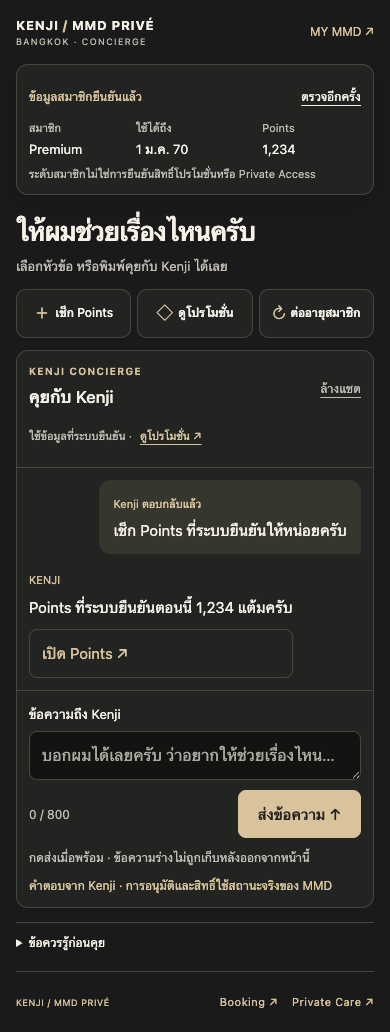
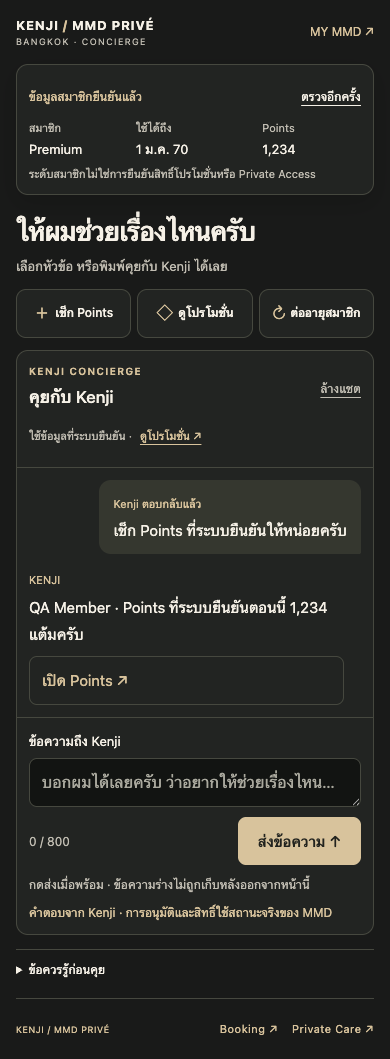
Render Points replies from fresh guarded LIFF authority

diff --git a/webflow/concierge/kenji/kenji-concierge-v3.js b/webflow/concierge/kenji/kenji-concierge-v3.js
@@ -22,10 +22,14 @@
     var guarded=profile.points_policy==="lot_365d_from_entry"&&points.expiry_policy==="lot_365d_from_entry"&&points.status==="verified"&&points.active_points===balance&&profile.points_recovery_pending!==true;
     if(!guarded||typeof balance!=="number"||!Number.isSafeInteger(balance)||balance<0)balance=null;
     var unresolved=profile.pending_identity===true||profile.resolution_guard&&profile.resolution_guard.state==="checking";
-    return{mode:mode,tier:unresolved?"":clean(profile.tier),expiry:!unresolved&&Number.isFinite(expires)?expiry:"",points:unresolved?null:balance};
+    return{mode:mode,tier:unresolved?"":clean(profile.tier),expiry:!unresolved&&Number.isFinite(expires)?expiry:"",points:unresolved?null:balance,displayName:unresolved?"":clean(profile.display_name).slice(0,100)};
   }
-  function displayReply(data,points){
-    return data.intent==="points_status"&&points===null?"ตอนนี้ยังยืนยันยอด Points ไม่ได้ครับ ตรวจข้อมูลใน MY MMD ก่อน ผมจะไม่เติมยอดที่ยังไม่ยืนยัน":data.reply;
+  function displayReply(data,points,name){
+    if(data.intent!=="points_status")return data.reply;
+    // The chat BFF can carry an unguarded legacy balance. Render only the
+    // freshly read, payment-backed LIFF value; never parse or reuse its reply.
+    if(typeof points!=="number"||!Number.isSafeInteger(points)||points<0)return "ตอนนี้ยังยืนยันยอด Points ไม่ได้ครับ ตรวจข้อมูลใน MY MMD ก่อน ผมจะไม่เติมยอดที่ยังไม่ยืนยัน";
+    return (clean(name)?clean(name)+" · ":"")+"Points ที่ระบบยืนยันตอนนี้ "+new Intl.NumberFormat("th-TH").format(points)+" แต้มครับ";
   }
   function safeAction(action){
     if(!action||typeof action.url!=="string"||typeof action.label!=="string")return null;
@@ -39,7 +43,7 @@
   root.dataset.initialized="true";
   var $=function(selector){return root.querySelector(selector)};
   var card=$("[data-kj3-status-card]"),input=$("#kj3-input"),feedback=$("[data-kj3-chat-status]");
-  var requestId=0,controller=null,lastChecked=0,chatController=null,chatId=0,memberPoints=null,busy=false,canChat=false,paused=false;
+  var requestId=0,controller=null,lastChecked=0,chatController=null,chatId=0,memberPoints=null,memberName="",busy=false,canChat=false,paused=false;
   var messages=$("[data-kj3-messages]"),send=$("[data-kj3-send]");
   function safePath(value,fallback){try{var url=new URL(value,location.origin);return url.origin===location.origin&&url.pathname.startsWith("/")?url.pathname+url.search+url.hash:fallback}catch(e){return fallback}}
   var endpoint=safePath(root.dataset.profileEndpoint,"/member/api/liff/profile");
@@ -62,7 +66,7 @@
   $("[data-kj3-login]").href=verify;
   var labels={loading:["กำลังตรวจสอบสมาชิก","อ่านข้อมูลที่ยืนยันแล้วจาก MY MMD"],active:["ข้อมูลสมาชิกยืนยันแล้ว","ระดับสมาชิกไม่ใช่การยืนยันสิทธิ์โปรโมชั่นหรือ Private Access"],guest:["ยืนยันบัญชีเพื่อดูสถานะ","เปิด MY MMD แล้วกลับมาตรวจอีกครั้ง"],expired:["สมาชิกหมดอายุ / ไม่ใช้งาน","ตรวจขั้นตอนต่ออายุใน MY MMD"],pending:["สถานะอยู่ระหว่างตรวจสอบ","ยังไม่ยืนยันการเปิดสิทธิ์ส่วนตัว"],blocked:["สิทธิ์อยู่ระหว่างระงับ","ตรวจสถานะใน MY MMD หรือติดต่อ Private Care"],unknown:["ยังยืนยันสถานะสมาชิกไม่ได้","ข้อมูลไม่ครบ กรุณาตรวจใน MY MMD"],error:["ตรวจสถานะไม่สำเร็จ","ลองตรวจอีกครั้ง ข้อมูลเก่าจะไม่ถูกแสดงแทน" ]};
   function state(profile){
-    memberPoints=profile.points==null?null:profile.points;
+    memberPoints=profile.points==null?null:profile.points;memberName=profile.displayName||"";
     var mode=profile.mode,copy=labels[mode]||labels.unknown;
     root.dataset.memberMode=mode;card.setAttribute("aria-busy",mode==="loading"?"true":"false");
     $("[data-kj3-status-title]").textContent=copy[0];$("[data-kj3-status-copy]").textContent=copy[1];
@@ -118,8 +122,12 @@
       if(!response.ok||!data||data.ok!==true||typeof data.reply!=="string"||!data.reply.trim()){
         label.textContent="ยังไม่ยืนยันการรับ";feedback.textContent=response.status===409?"รายการซ้ำหรือสถานะเปลี่ยน ยังไม่ยืนยันการรับ กรุณาตรวจบทสนทนาเดิมก่อนส่งซ้ำ":"ยังรับคำตอบไม่ได้ ข้อความยังอยู่ในช่องพิมพ์ กรุณาตรวจสถานะก่อนลองใหม่";return;
       }
+      if(data.intent==="points_status"){
+        await load();
+        if(id!==chatId||root.dataset.memberMode==="loading")return;
+      }
       label.textContent="Kenji ตอบกลับแล้ว";
-      var reply=displayReply(data,memberPoints);
+      var reply=displayReply(data,memberPoints,memberName);
       addMessage(reply,"kenji",data.review_required===true?"KENJI · ต้องตรวจสอบเพิ่มเติม":"KENJI",data.action);
       if(input.value.trim()===message){input.value="";$("[data-kj3-count]").textContent="0 / 800"}
       feedback.textContent="คำตอบจาก Kenji · การอนุมัติและสิทธิ์ใช้สถานะจริงของ MMD";

diff --git a/webflow/concierge/kenji/qa/browser-qa.js b/webflow/concierge/kenji/qa/browser-qa.js
@@ -1,9 +1,9 @@
 async (page) => {
   const capture=async options=>{await page.evaluate(()=>window.scrollTo(0,0));await page.screenshot(options)};
   const checks=[];const check=(value,label)=>{if(!value)throw new Error(label);checks.push(label)};
-  const liffProfile=(points=1234,fields={})=>({ok:true,data:{tier:'Premium',membership_status:'active',membership_expires_at:'2027-01-01',...fields,points,points_policy:'lot_365d_from_entry',customer_360:{points:{status:points===null?'checking':'verified',active_points:points,expiry_policy:'lot_365d_from_entry'}}}});
+  const liffProfile=(points=1234,fields={})=>({ok:true,data:{display_name:'QA Member',tier:'Premium',membership_status:'active',membership_expires_at:'2027-01-01',...fields,points,points_policy:'lot_365d_from_entry',customer_360:{points:{status:points===null?'checking':'verified',active_points:points,expiry_policy:'lot_365d_from_entry'}}}});
   const profileBody=liffProfile();
-  let profile={status:200,body:profileBody},chat={status:200,body:{ok:true,reply:'Points ที่ระบบยืนยันตอนนี้ 1,234 แต้มครับ',intent:'points_status',action:{label:'เปิด Points',url:'/my-mmd/points'}}},posts=[];
+  let profile={status:200,body:profileBody},chat={status:200,body:{ok:true,reply:'Legacy balance 61,320 แต้ม',intent:'points_status',action:{label:'เปิด Points',url:'/my-mmd/points'}}},posts=[];
   const errors=[];page.on('pageerror',error=>errors.push(error.message));
   await page.route('**/member/api/liff/profile',async route=>{const current=profile;if(current.delay)await page.waitForTimeout(current.delay);await route.fulfill({status:current.status,contentType:'application/json',body:JSON.stringify(current.body)})});
   await page.route('**/api/member/kenji/chat',async route=>{posts.push(route.request().postDataJSON());const current=chat;if(current.delay)await page.waitForTimeout(current.delay);if(current.abort)return route.abort();await route.fulfill({status:current.status,contentType:'application/json',body:current.raw??JSON.stringify(current.body)})});
@@ -27,7 +27,7 @@ async (page) => {
   check((await input.inputValue()).includes('Points'),'points prompt');
   chat.delay=400;await send.dblclick();await page.waitForFunction(()=>!document.querySelector('[data-kj3-send]').disabled);
   check(posts.length===1,'duplicate clicks send exactly once');check(Object.keys(posts[0]).join(',')==='message','request is existing message contract only');
-  check((await root.locator('[data-kj3-messages]').textContent()).includes('1,234'),'actual mock reply rendered');check((await input.inputValue())==='','success clears submitted input');
+  check((await root.locator('[data-kj3-messages]').textContent()).includes('1,234'),'guarded1234 replaces raw61320 reply');check((await input.inputValue())==='','success clears submitted input');
   check((await root.locator('.kj3-message a').getAttribute('href'))==='/my-mmd/points','backend action preserved');
   await capture({path:'output/playwright/kenji-chat-390.png',fullPage:true});
   await input.fill('อยากคุยต่อครับ');await input.press('Enter');check(posts.length===1,'Enter adds newline, no implicit send');
@@ -53,6 +53,21 @@ async (page) => {
   await page.evaluate(()=>window.scrollTo(0,document.body.scrollHeight));check(await root.locator('[data-kj3-status-card]').evaluate(el=>Math.abs(el.getBoundingClientRect().top)<1),'status persists while scrolling');
   await page.setViewportSize({width:390,height:844});profile={status:200,body:profileBody};await page.goto('http://127.0.0.1:8765/concierge/kenji?t=QA_ONLY#kj3-faq');await ready();check(page.url().includes('t=QA_ONLY#kj3-faq'),'query and historical anchor preserved');await page.goto('http://127.0.0.1:8765/concierge/kenji?t=QA_ONLY#kj3-care');await page.goBack();check(page.url().endsWith('#kj3-faq'),'back anchor');await page.goForward();check(page.url().endsWith('#kj3-care'),'forward anchor');
   await page.reload();await ready();check((await root.locator('[data-kj3-messages]').textContent()).includes('ยังไม่มีบทสนทนา'),'reload no fabricated history');
+  for(const balance of [2222,null,0,-5]){
+    profile={status:200,body:profileBody};await page.reload();await ready();
+    profile={status:200,body:liffProfile(balance)};
+    chat={status:200,body:{ok:true,reply:'QA Member · Points 61,320 แต้ม',intent:'points_status'}};
+    await input.fill('เช็ก Points');await send.click();await page.waitForFunction(()=>!document.querySelector('[data-kj3-send]').disabled);
+    const shown=await root.locator('.kj3-message[data-role=kenji]').last().textContent();
+    check(!shown.includes('61,320'),'raw reply discarded for fresh '+balance);
+    check(balance===null||balance<0?shown.includes('ยังยืนยันยอด Points ไม่ได้'):shown.includes(balance===0?'0 แต้ม':'2,222 แต้ม'),'fresh guarded reply '+balance);
+    check((await root.locator('[data-kj3-points]').textContent())===(balance===null||balance<0?'ยังไม่ยืนยัน':balance===0?'0':'2,222'),'status and reply same authority '+balance);
+    if(balance===2222)await capture({path:'output/playwright/kenji-points-authority.png',fullPage:true});
+  }
+  profile={status:200,body:profileBody};await page.reload();await ready();profile={status:401,body:{ok:false}};
+  await input.fill('เช็ก Points');await send.click();await page.waitForFunction(()=>document.querySelector('#kenji-concierge-v3').dataset.memberMode==='guest');
+  check(!(await root.locator('[data-kj3-messages]').textContent()).includes('61,320'),'lost session during fresh Points read discards reply');
+  check((await root.locator('[data-kj3-points]').textContent())==='ยังไม่ยืนยัน','fresh401 clears guarded points');
   await page.emulateMedia({reducedMotion:'reduce'});check(await input.evaluate(el=>getComputedStyle(el).transitionDuration)==='0s','reduced motion');
   check(errors.length===0,'no JavaScript errors');return {checks:checks.length,passed:checks,chatRequests:posts.length,errors};
 }

diff --git a/webflow/concierge/kenji/README.md b/webflow/concierge/kenji/README.md
@@ -12,7 +12,7 @@ Mobile-first Thai concierge entry with inline chat, quiet charcoal/champagne/ivo
 
 Quick prompts prepare text and focus the composer; only Send submits. Enter creates a newline. A busy guard prevents double-click sends. Failed/ambiguous delivery retains the draft and never reports sent. There is no automatic retry. The current BFF returns a complete JSON reply, not a stream, and has no transcript/history endpoint. Reload starts an empty local transcript; clearing chat deletes only the local display. Visibility/pagehide and lost-session states clear private local data.
 
-The configured LIFF response uses flat `data.tier`, `data.membership_expires_at` and numeric `data.points`. Points require the existing `lot_365d_from_entry` policy and matching verified `customer_360.points` guard, not unguarded resolver totals; missing, pending and malformed values remain unknown. If profile points cannot be verified, a points-intent chat response cannot turn that unknown into an invented zero. Membership level does not grant private access or personal promo eligibility. Server actions are rendered as text with relative first-party links. Query `t` is retained for existing verification/booking handoffs and never substituted for a chat credential. Existing section hash targets remain supported.
+The configured LIFF response uses flat `data.tier`, `data.membership_expires_at` and numeric `data.points`. Points require the existing `lot_365d_from_entry` policy and matching verified `customer_360.points` guard, not unguarded resolver totals; missing, pending and malformed values remain unknown. For every points-intent reply the page refreshes LIFF and composes the amount from the same guarded profile authority/value. Raw BFF Points reply text is never reused, even when the earlier profile had a verified amount. Unknown cannot become an invented zero. Membership level does not grant private access or personal promo eligibility. Server actions are rendered as text with relative first-party links. Query `t` is retained for existing verification/booking handoffs and never substituted for a chat credential. Existing section hash targets remain supported.
 
 ## Verification and acceptance
 

diff --git a/webflow/concierge/kenji/qa/README.md b/webflow/concierge/kenji/qa/README.md
@@ -1,3 +1,16 @@
+# Points reply authority correction
+
+Source-confirmed P1 from PR2195 discussion_r4171974421. Merged compact main64582f2d retained unsafe exact Points reply preservation: a known guarded profile amount did not prove the BFF reply used that amount. No customer incident reproduced.
+
+The page now re-reads payment-backed LIFF on each successful points_status response and composes Points text only from that freshly normalized amount and profile display name. Arbitrary BFF Points reply text is discarded; general replies remain unchanged. Preserves polite Thai Per Voice and verified profile name. No backend/model/ledger/session changes.
+
+- 28 focused tests pass, including actual raw truth projection + actual BFF + actual reply builder producing61320 while actual LIFF response guard produces1234.
+- 87 mock browser checks pass,13 intercepted POSTs. UI never renders raw61320; refreshed2222 replaces initial1234, null/negative remain unknown, verified0 remains0, and refresh401 clears private data instead of showing the reply.
+- Footer-only Webflow staging readback matches. No publication. Existing Designer/metadata/native/auth and single-page capability limitations remain.
+- Shell composition uses blocked external resources and WebFont stub; no live customer messages or authenticated incident reproduction.
+
+## Historical evidence (superseded where exact Points reply preservation was claimed)
+
 # Compact mobile-first follow-up
 
 Base main `130d8608`, retains merged LIFF/profile/reply contracts. The page now prioritizes member status, three compact quick prompts and chat. Removed repeated hero CTA, standalone explanatory sections and duplicate service nav; safety/takeover/eligibility information is in one collapsed disclosure with historical anchor IDs retained. Desktop uses a smaller portrait and bounded two-column layout.
